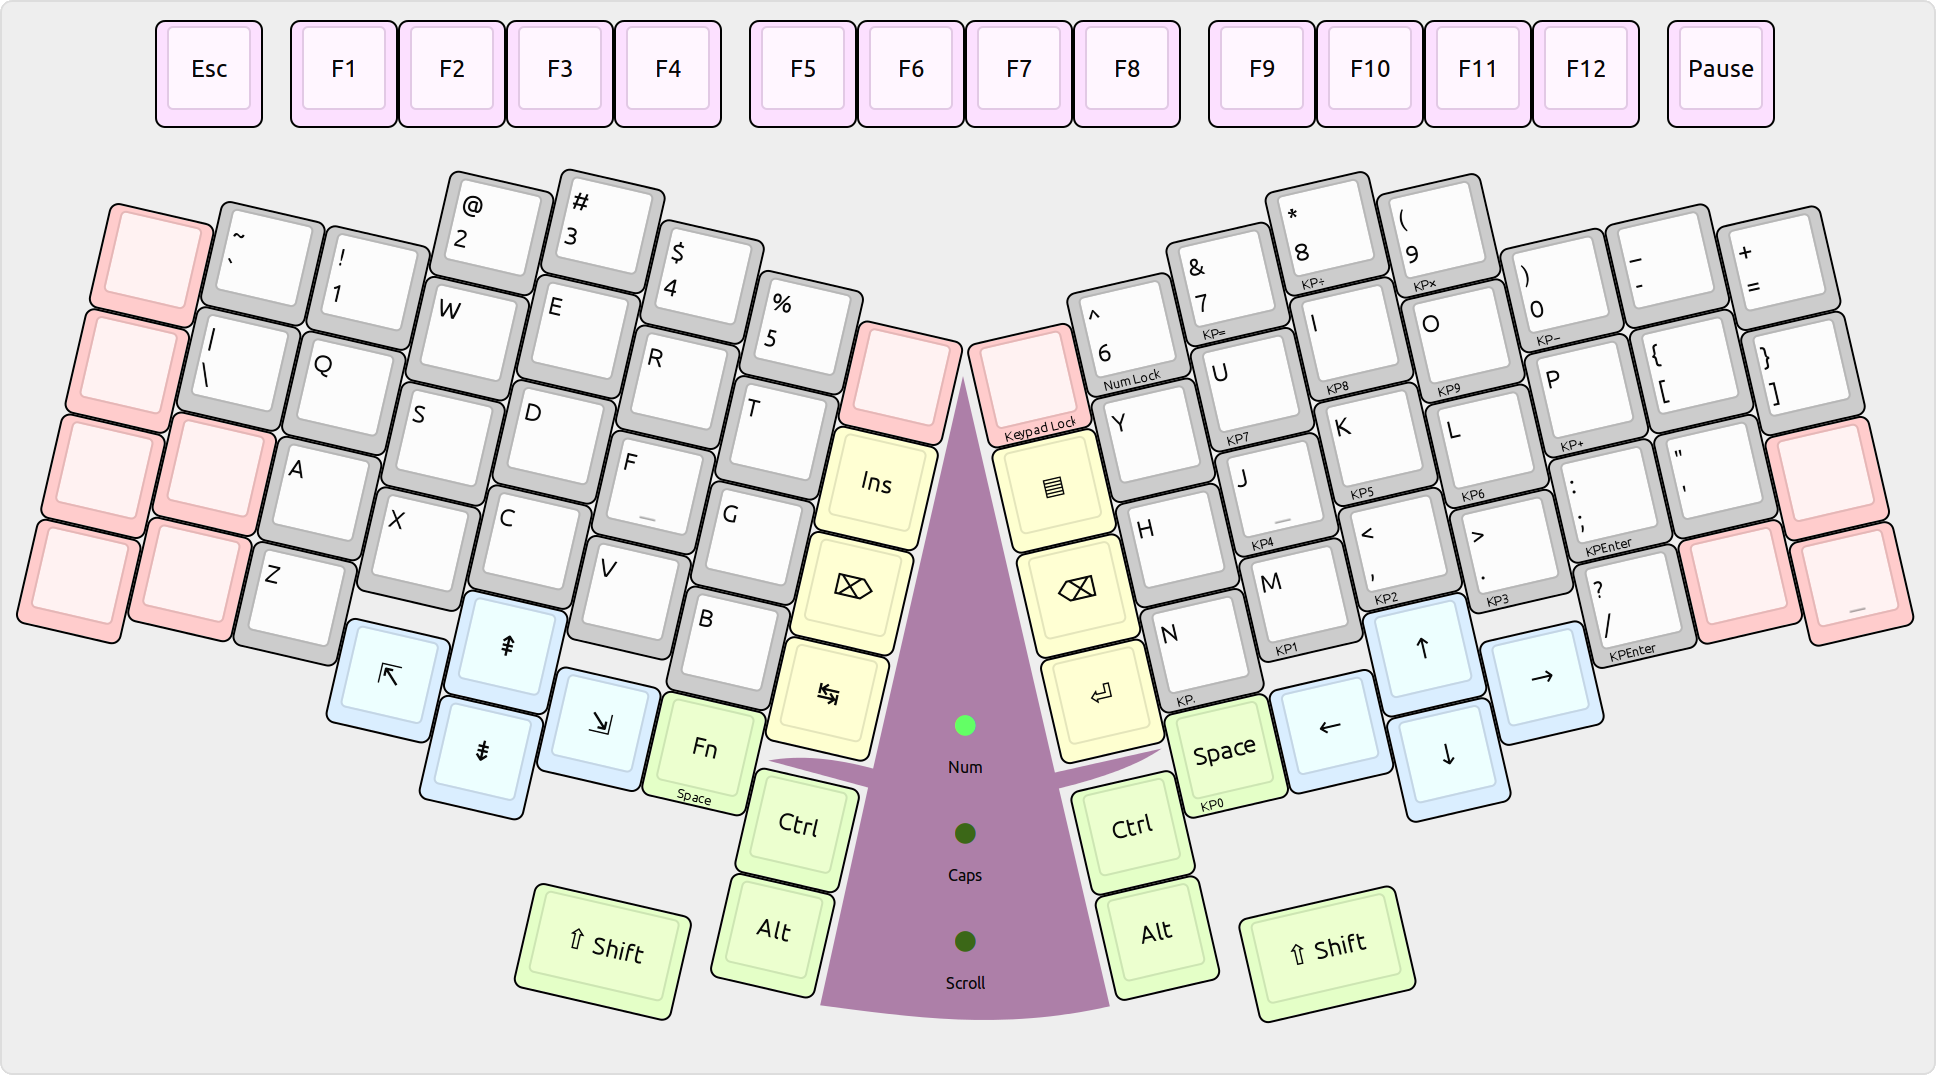
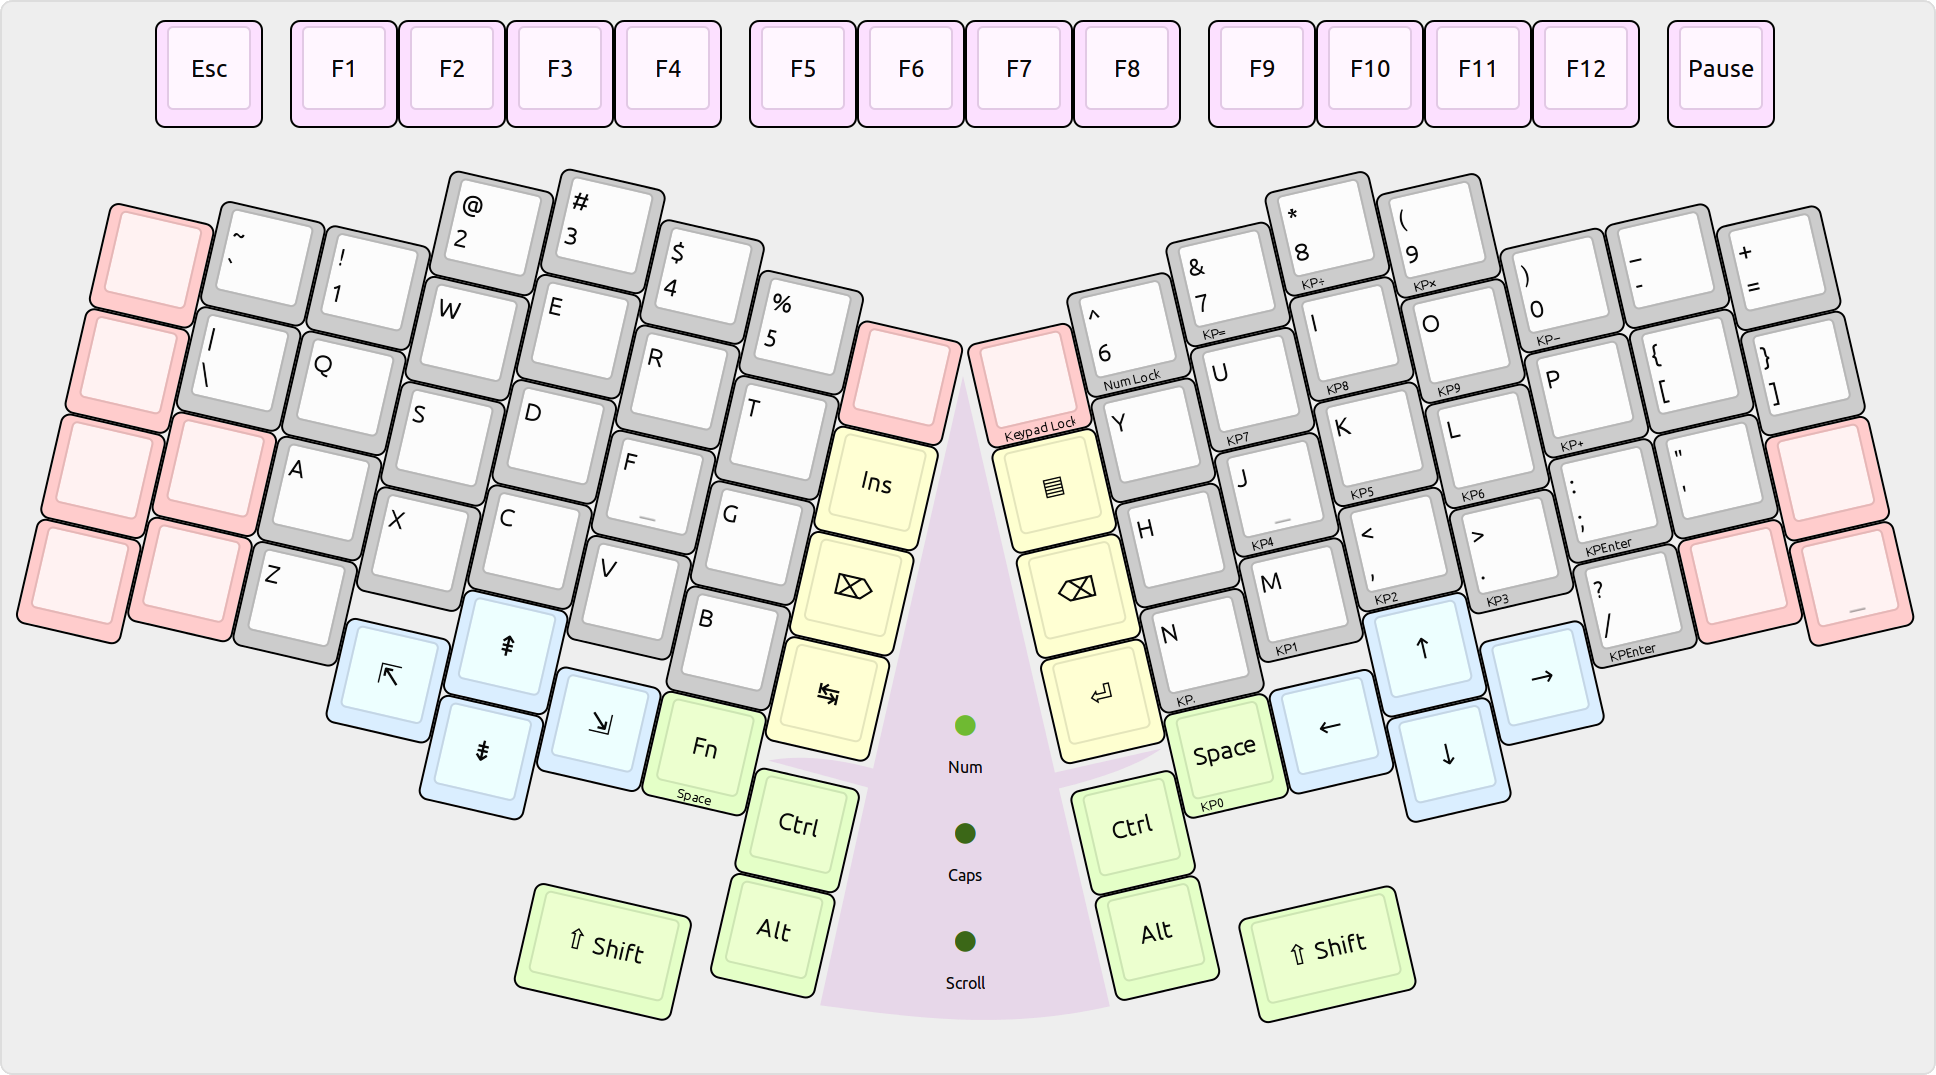
Generate Pelican site

Changed region(s): [[0.4029, 0.3684, 0.5888, 0.9516]]

diff --git a/bill-of-materials.html b/bill-of-materials.html
@@ -155,7 +155,7 @@ according to your location.</p>
 <td align="right">7</td>
 <td></td>
 <td></td>
-<td></td>
+<td><sup id="fnref:13"><a class="footnote-ref" href="#fn:13" rel="footnote">13</a></sup></td>
 <td align="right">$1</td>
 </tr>
 <tr>
@@ -179,7 +179,7 @@ according to your location.</p>
 <td align="right">4</td>
 <td></td>
 <td></td>
-<td><sup id="fnref:13"><a class="footnote-ref" href="#fn:13" rel="footnote">13</a></sup></td>
+<td><sup id="fnref:14"><a class="footnote-ref" href="#fn:14" rel="footnote">14</a></sup></td>
 <td align="right">$1</td>
 </tr>
 <tr>
@@ -202,9 +202,17 @@ according to your location.</p>
 <td>Self-adhesive rubber feet</td>
 <td align="right">4</td>
 <td></td>
-<td><sup id="fnref:14"><a class="footnote-ref" href="#fn:14" rel="footnote">14</a></sup></td>
-<td>$7</td>
+<td></td>
+<td><sup id="fnref:15"><a class="footnote-ref" href="#fn:15" rel="footnote">15</a></sup></td>
+<td align="right">$7</td>
+</tr>
+<tr>
+<td><strong>Subtotal</strong></td>
 <td align="right"></td>
+<td></td>
+<td></td>
+<td></td>
+<td align="right"><strong>≈$200</strong></td>
 </tr>
 </tbody>
 </table>
@@ -223,7 +231,7 @@ according to your location.</p>
 <p>If unsure, choose Quiet Click.&#160;<a class="footnote-backref" href="#fnref:1" rev="footnote" title="Jump back to footnote 1 in the text">&#8617;</a></p>
 </li>
 <li id="fn:2">
-<p>Matias keycaps are available in black or white, blank or
+<p>Matias keycaps are available in black or white; blank or
 labeled. They are made of ABS plastic, have matte cylindrical
 surface, and differ by row.</p>
 <p>When choosing, keep in mind the following considerations:</p>
@@ -240,14 +248,14 @@ surface, and differ by row.</p>
 <p><a href="http://pimpmykeyboard.com/">Signature Plastics</a> offers a limited selection of keycaps
 with Alps mounts; these are blank only, more expensive, and in
 various colors and profiles.</p>
-<p>This build instruction does not suggest a default choice for
-keycaps. You need to make that choice.&#160;<a class="footnote-backref" href="#fnref:2" rev="footnote" title="Jump back to footnote 2 in the text">&#8617;</a></p>
+<p>There is no default for the keycaps; you have to make this choice.
+The approximate cost assumes a Matias keycap set.&#160;<a class="footnote-backref" href="#fnref:2" rev="footnote" title="Jump back to footnote 2 in the text">&#8617;</a></p>
 </li>
 <li id="fn:3">
 <p>Purple Tentacle uses palm supports designed for the Matias Ergo
 Pro keyboard. These come in five colors: White, Black, Red, Navy
-Blue, and Astronaut Blue. They are gel pads covered with silk, on
-a plastic/steel base.</p>
+Blue, and Astronaut Blue. They are gel pads covered with silk,
+attached to a plastic/steel base.</p>
 <p>Whether to use palm supports is a personal choice, dependent on
 your typing habits.</p>
 <p>If you do use the palm supports, they will accumulate lint from
@@ -289,7 +297,7 @@ they will be a hassle to fit in the keyboard case.&#160;<a class="footnote-backr
 </li>
 <li id="fn:6">
 <p>For status indicators (Num Lock, Caps Lock, Scroll Lock), choose
-LEDs that will fit in 8 mm height and have forward voltage of 3 V or
+LEDs that will fit in 8 mm space and have forward voltage of 3 V or
 less. Prefer diffused ones. Choose through-hole mount, not surface
 mount.</p>
 <p>This instruction assumes ⌀3 mm green LEDs, forward voltage 1.8–2 V,
@@ -297,9 +305,12 @@ maximum current 20 mA.&#160;<a class="footnote-backref" href="#fnref:6" rev="fo
 </li>
 <li id="fn:7">
 <p>Calculate the minimum limiting resistor value as
-R<sub>min</sub> = (5 V − V<sub>f</sub>) / I<sub>max</sub> and use
-an actual value above that in order to keep the current through
-LEDs within specifications.</p>
+<var>R</var><sub>min</sub> = (<var>V</var><sub>cc</sub> −
+<var>V</var><sub>f</sub>) / <var>I</var><sub>max</sub>, where
+<var>V</var><sub>cc</sub> = 5 V, <var>V</var><sub>f</sub> is the
+LED forward voltage, and <var>I</var><sub>max</sub> is the LED
+maximum current, and use an actual value above that in order to
+keep the current through LEDs within specifications.</p>
 <p>For best results, try resistors of several values and choose the
 one that yields the most comfortable LED brightness. Your goal is
 to make the LED noticeable but not painful to look at. Be sure to
@@ -311,7 +322,9 @@ pleasant brightness.&#160;<a class="footnote-backref" href="#fnref:7" rev="footn
 <li id="fn:8">
 <p>Matias switches are mounted on a plate 1 mm thick. Ask your
 laser cutting facility what materials they carry.</p>
-<p>If in doubt, choose stainless steel.&#160;<a class="footnote-backref" href="#fnref:8" rev="footnote" title="Jump back to footnote 8 in the text">&#8617;</a></p>
+<p>If in doubt, choose stainless steel. (If you make a Purple
+Tentacle with a plate made of a different material, please
+<a href="https://github.com/yurikhan/purple-tentacle/issues/1">share your experience</a>!)&#160;<a class="footnote-backref" href="#fnref:8" rev="footnote" title="Jump back to footnote 8 in the text">&#8617;</a></p>
 </li>
 <li id="fn:9">
 <p>The bottom plate covers the electronics from below. If you
@@ -329,7 +342,9 @@ inserted into the mounting plate, their pin ends will go 8 mm
 below the plate level, and you will need a little space so that
 the bottom plate does not touch them.</p>
 <p>Ask your laser cutter facility what materials they carry and what
-they work with. Otherwise, the choice is purely aesthetical.</p>
+they work with. If they don’t have anything suitable, ask what
+size the raws need to be.</p>
+<p>The choice is purely aesthetical.</p>
 <p>With translucent plastics, electronics next to the edges will be
 visible through the case walls. Also, if your controller board has
 an always-on power LED, it will shine through the back.</p>
@@ -355,19 +370,35 @@ convenient for you. If not, choose solid core copper wire, around
 AWG 26 (0.13 mm<sup>2</sup>).</p>
 <p>Category 5 twisted pair can be used and provides convenient color
 coding for the wires, although it is a bit too rigid. If you go
-this way, you need 1.5 m 4-pair UTP 5 or 3 m 2-pair UTP 5.&#160;<a class="footnote-backref" href="#fnref:12" rev="footnote" title="Jump back to footnote 12 in the text">&#8617;</a></p>
+this way, you need 1.5 m 4-pair UTP or 3 m 2-pair UTP.&#160;<a class="footnote-backref" href="#fnref:12" rev="footnote" title="Jump back to footnote 12 in the text">&#8617;</a></p>
 </li>
 <li id="fn:13">
-<p>M6 bolts, washers and nuts are used to attach palm supports. If
-you don’t want palm supports, skip these.&#160;<a class="footnote-backref" href="#fnref:13" rev="footnote" title="Jump back to footnote 13 in the text">&#8617;</a></p>
+<p>M3 bolts, washers and acorn nuts screw the case details
+together. Choose a bolt length 2 to 4 mm longer than the total
+thickness of the bottom, spacer, plate, and frame (if used). Add
+washers if needed. (The M3 acorn nut has a depth of 4.5 mm.)</p>
+<p>Choose a head shape with a flat underside, not a countersunk one.&#160;<a class="footnote-backref" href="#fnref:13" rev="footnote" title="Jump back to footnote 13 in the text">&#8617;</a></p>
 </li>
 <li id="fn:14">
+<p>M6 bolts, washers and nuts are used to attach palm supports. If
+you don’t want palm supports, you can skip these.</p>
+<p>The palm supports provide an elevation of ≈8 mm to the front edge
+of the keyboard. This should accommodate most M6 bolt heads so
+they won’t scratch your desk.</p>
+<p>Choose a head shape with a flat underside, not a countersunk one.&#160;<a class="footnote-backref" href="#fnref:14" rev="footnote" title="Jump back to footnote 14 in the text">&#8617;</a></p>
+</li>
+<li id="fn:15">
 <p>Rubber feet prevent the keyboard from moving on your desk.
 Additionally, they prevent the case bolt heads from scratching the
 desk surface.</p>
 <p>Choose feet thickness so that it exceeds the bolt head height.
 4 mm or higher should accommodate most standard shapes of M3 bolt
-heads.&#160;<a class="footnote-backref" href="#fnref:14" rev="footnote" title="Jump back to footnote 14 in the text">&#8617;</a></p>
+heads.</p>
+<p>With palm supports, two rubber feet are sufficient. Without palm
+supports, you might want five.</p>
+<p>The best-known supplier is 3M. Suitable feet are sometimes bundled
+with network appliances such as switches, home routers, and WiFi
+access points.&#160;<a class="footnote-backref" href="#fnref:15" rev="footnote" title="Jump back to footnote 15 in the text">&#8617;</a></p>
 </li>
 </ol>
 </div>

diff --git a/layout.html b/layout.html
@@ -48,10 +48,11 @@ inside columns, one outside column on the left and three to four
 outside columns on the right, overworking the right pinky.)</p>
 <p>It is suggested that the most frequently used editing keys —
 <kbd>Backspace</kbd>, <kbd>Enter</kbd>, <kbd>Tab</kbd>, and
-<kbd>Delete</kbd> — be moved to the inside columns, and some of the
-punctuation keys in the outside columns be moved to the left hand.</p>
-<p>This leaves several spare keys for user experimentation. Use these
-for anything you can think of. Ideas include:</p>
+<kbd>Delete</kbd> (highlighted in yellow) — be moved to the inside
+columns, and some of the punctuation keys in the outside columns be
+moved to the left hand.</p>
+<p>This leaves several spare keys for user experimentation (highlighted
+in red). Use these for anything you can think of. Ideas include:</p>
 <ul>
 <li>Any classic keys you need (<kbd>Print Screen</kbd>, <kbd>Scroll
   Lock</kbd>, <kbd>Caps Lock</kbd>, or <kbd>Win</kbd>)</li>
@@ -63,15 +64,15 @@ for anything you can think of. Ideas include:</p>
 </ul>
 <p>Apart for the main area, the layout includes:</p>
 <ul>
-<li>Function keys on the top, in groups of four. (This grouping aids in
-  finding them by touch.)</li>
+<li>Function keys on the top, in groups of four (highlighted in purple).
+  This grouping aids in finding them by touch.</li>
 <li>Two diamond-shape navigation clusters, positioned in the
   index–middle–ring finger columns and accessible without moving the
-  wrist.</li>
+  wrist (highlighted in blue).</li>
 <li>Three keys for each thumb and two keys to be pressed with the base
-  of the thumbs. The arrangement suggested on the image above makes it
-  possible to press two modifiers simultaneously with one thumb while
-  leaving the other fingers in their home position.</li>
+  of the thumbs (highlighted in green). Arranging modifiers as shown
+  above makes it possible to press two modifiers simultaneously with
+  one thumb while leaving the other fingers in their home position.</li>
 </ul>
 <p>The triangular shape in the middle, highlighted in purple, with the
 green status LEDs, resembles a character from Day of the Tentacle, a

diff --git a/author/yuri-khan.html b/author/yuri-khan.html
@@ -33,7 +33,7 @@
                 <footer class="post-info">
                     <div class="published"></div>
                 </footer><!-- /.post-info -->
-                <div class="entry-content"> <p>Function keys, navigation, thumb clusters, extra keys, fixed split, column stagger.</p> </div><!-- /.entry-content -->
+                <div class="entry-content"> <p>Column-staggered, fixed split tenkeyless layout with thumb arcs.</p> </div><!-- /.entry-content -->
         </article></li>
         <li><article class="hentry">
                 <header> <h2 class="entry-title"><a href="../bill-of-materials.html" rel="bookmark" title="Permalink to Bill of materials">Bill of materials</a></h2> </header>

diff --git a/category/misc.html b/category/misc.html
@@ -33,7 +33,7 @@
                 <footer class="post-info">
                     <div class="published"></div>
                 </footer><!-- /.post-info -->
-                <div class="entry-content"> <p>Function keys, navigation, thumb clusters, extra keys, fixed split, column stagger.</p> </div><!-- /.entry-content -->
+                <div class="entry-content"> <p>Column-staggered, fixed split tenkeyless layout with thumb arcs.</p> </div><!-- /.entry-content -->
         </article></li>
         <li><article class="hentry">
                 <header> <h2 class="entry-title"><a href="../bill-of-materials.html" rel="bookmark" title="Permalink to Bill of materials">Bill of materials</a></h2> </header>

diff --git a/index.html b/index.html
@@ -34,7 +34,7 @@
                 <footer class="post-info">
                     <div class="published"></div>
                 </footer><!-- /.post-info -->
-                <div class="entry-content"> <p>Function keys, navigation, thumb clusters, extra keys, fixed split, column stagger.</p> </div><!-- /.entry-content -->
+                <div class="entry-content"> <p>Column-staggered, fixed split tenkeyless layout with thumb arcs.</p> </div><!-- /.entry-content -->
         </article></li>
         <li><article class="hentry">
                 <header> <h2 class="entry-title"><a href="./bill-of-materials.html" rel="bookmark" title="Permalink to Bill of materials">Bill of materials</a></h2> </header>
